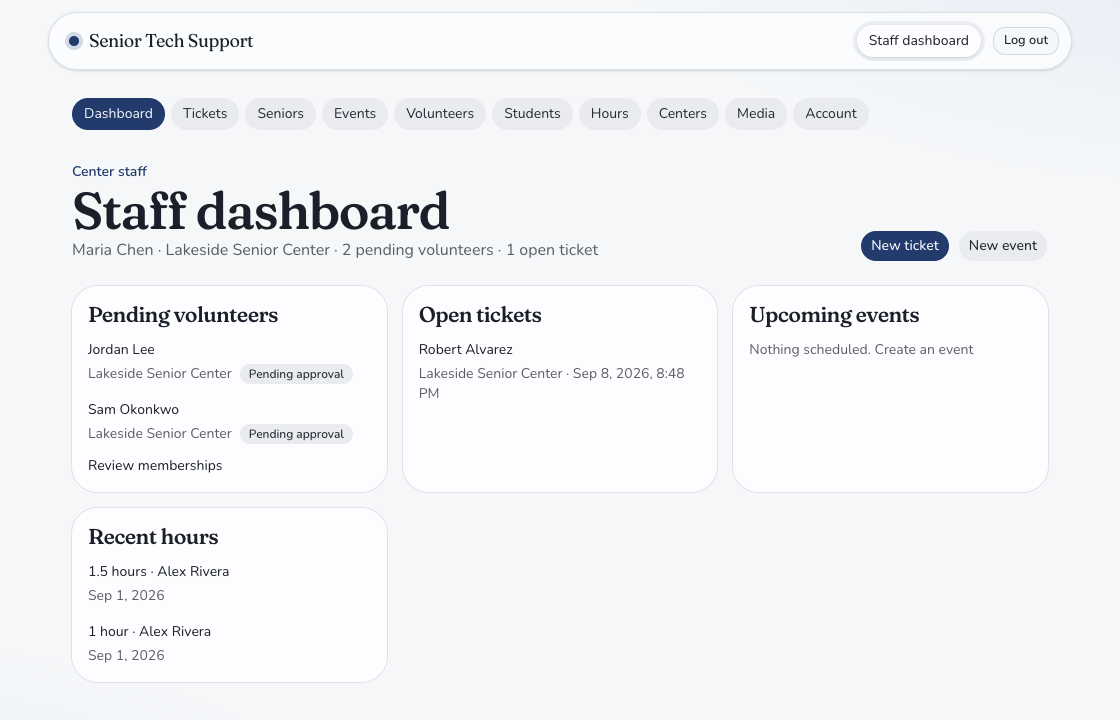
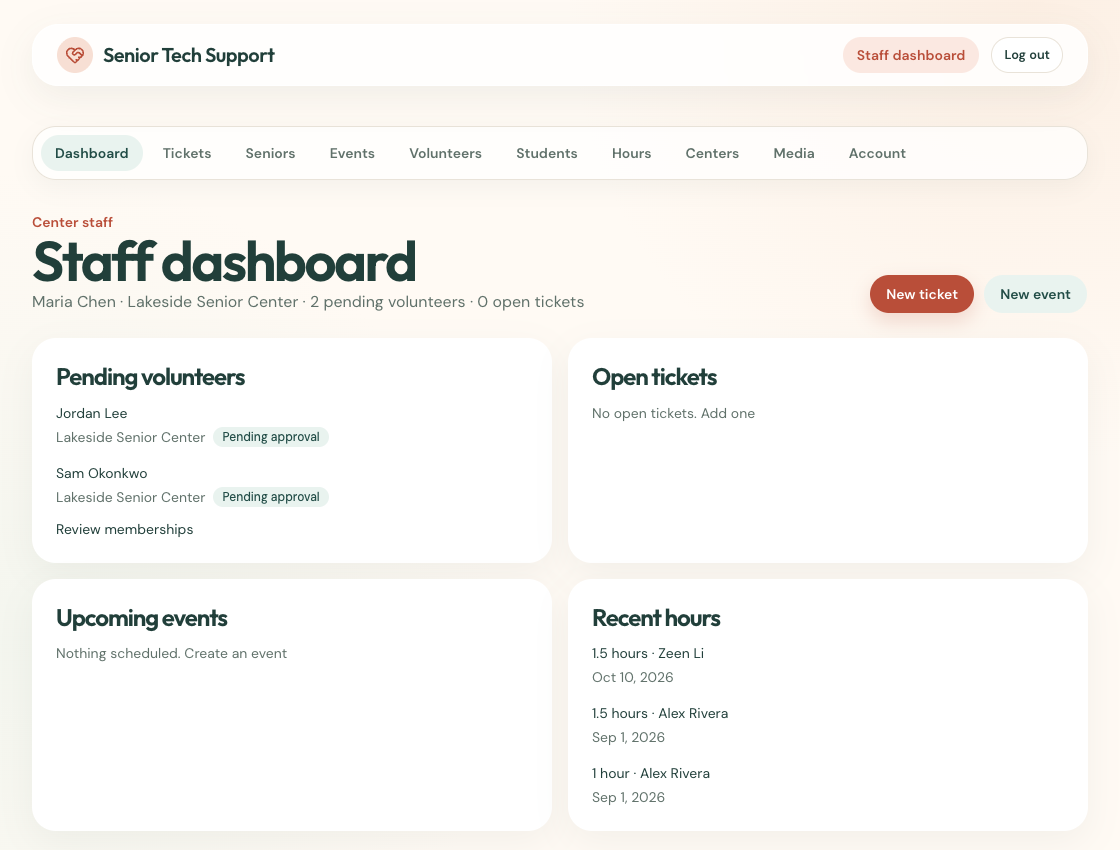
Updated style and screenshots

diff --git a/src/app/(frontend)/(student)/page.tsx b/src/app/(frontend)/(student)/page.tsx
@@ -1,7 +1,8 @@
 import Link from 'next/link'
-import { ArrowRight, CalendarDays, Clock3, Heart, MapPin, MessageCircle, Sparkles } from 'lucide-react'
+import { ArrowRight, CalendarDays, Clock3, Heart, MapPin, Sparkles } from 'lucide-react'
 
 import { isAdminUser, isStudent } from '@/access/roles'
+import { HeroGallery } from '@/app/(frontend)/components/HeroGallery'
 import { Button } from '@/components/ui/button'
 import { getAuth } from '@/lib/auth'
 
@@ -10,21 +11,21 @@ const steps = [
     icon: MapPin,
     number: '01',
     title: 'Find your place',
-    body: 'Join a local center and become part of a welcoming volunteer team.',
+    body: 'Join a local center and become part of the welcoming volunteer team.',
     color: 'bg-[#e7f2ed] text-[#327767]',
   },
   {
     icon: CalendarDays,
     number: '02',
     title: 'Make a difference',
-    body: 'Help at an appointment or lend a hand at a group tech day.',
+    body: 'Help by accepting an appointment or lending a hand at a group tech day.',
     color: 'bg-[#fff0df] text-[#a76632]',
   },
   {
     icon: Clock3,
     number: '03',
     title: 'See your impact',
-    body: 'Keep track of your volunteer hours and the moments that matter.',
+    body: 'Keep track of your volunteer hours and see the difference you make.',
     color: 'bg-[#fbe8e1] text-[#b94e39]',
   },
 ]
@@ -39,13 +40,13 @@ export default async function HomePage() {
       <section className="grid items-center gap-10 pt-4 lg:grid-cols-[0.95fr_1.05fr] lg:gap-8 lg:pt-9">
         <div className="relative z-10 flex flex-col items-start gap-7 lg:py-10">
           <span className="inline-flex items-center gap-2 rounded-full bg-[#e7f2ed] px-4 py-2 text-xs font-bold tracking-[0.12em] text-[#2f7769] uppercase">
-            <Sparkles className="size-4" aria-hidden="true" /> Tech help with heart
+            <Sparkles className="size-4" aria-hidden="true" /> Tech4Seniors
           </span>
           <h1 className="max-w-2xl text-balance !text-[clamp(3.45rem,6vw,5.75rem)] !leading-[0.98]">
-            A little help.<br />A lot of <span className="text-primary">connection.</span>
+            A little help,<br />A lot of <span className="text-primary">connection.</span>
           </h1>
           <p className="max-w-lg text-lg leading-relaxed text-muted-foreground sm:text-xl">
-            Bring your tech know-how to someone who could use a hand. Make everyday technology easier for older adults, one friendly conversation at a time.
+            Bring your tech know-how to someone who could use a hand. A little tech help goes a long way. Use your skills to help senior citizens feel more confident and connected in an increasingly digital world.
           </p>
           <div className="flex flex-wrap items-center gap-3">
             {staff ? (
@@ -59,31 +60,19 @@ export default async function HomePage() {
               </>
             )}
           </div>
-          <p className="flex items-center gap-2 text-sm font-medium text-muted-foreground">
-            <Heart className="size-4 fill-primary text-primary" aria-hidden="true" /> Real people. Real support. Right in your community.
-          </p>
         </div>
-        <div className="relative isolate mx-auto grid min-h-[30rem] w-full max-w-[39rem] place-items-center overflow-hidden rounded-[2.6rem] bg-[#dceee5] p-7 shadow-[0_30px_70px_rgb(49_72_61_/_12%)] sm:min-h-[35rem] sm:rounded-[3.5rem] sm:p-10 lg:ml-auto">
+        <div className="relative isolate mx-auto grid min-h-[31rem] w-full max-w-[39rem] place-items-center overflow-hidden rounded-[2.6rem] bg-[#dceee5] p-7 shadow-[0_30px_70px_rgb(49_72_61_/_12%)] sm:min-h-[36rem] sm:rounded-[3.5rem] sm:p-10 lg:ml-auto">
           <div className="absolute -right-20 -top-20 size-72 rounded-full bg-[#f7dfcb]" aria-hidden="true" />
           <div className="absolute -bottom-24 -left-20 size-72 rounded-full bg-[#abd8c8]" aria-hidden="true" />
           <div className="absolute right-7 top-8 rotate-12 text-[#f5b897]" aria-hidden="true"><Sparkles className="size-16" strokeWidth={1.1} /></div>
-          <div className="relative w-full max-w-[28rem] rotate-[-3deg] rounded-[2rem] border border-white bg-white p-6 shadow-[0_22px_48px_rgb(33_63_58_/_13%)] sm:p-8">
-            <div className="mb-8 flex items-center gap-3">
-              <span className="grid size-11 place-items-center rounded-2xl bg-[#fbe8e1] text-primary"><MessageCircle className="size-5" aria-hidden="true" /></span>
-              <div><p className="text-sm font-bold text-foreground">Every question matters</p><p className="text-xs text-muted-foreground">Here to help, one step at a time</p></div>
-            </div>
-            <div className="mb-4 max-w-[17rem] rounded-2xl rounded-bl-sm bg-[#f5f0e9] px-5 py-4 text-[1.05rem] leading-snug text-foreground">How do I share a photo with my family?</div>
-            <div className="ml-auto max-w-[17rem] rounded-2xl rounded-br-sm bg-[#e5f3ec] px-5 py-4 text-[1.05rem] font-medium leading-snug text-[#22594e]">Let&apos;s figure it out together.</div>
-            <div className="mt-8 flex items-center gap-2 border-t border-border pt-5 text-sm font-semibold text-[#347d70]"><Heart className="size-4 fill-current" aria-hidden="true" /> Tech support that feels human</div>
-          </div>
-          <div className="absolute bottom-5 left-5 rounded-full bg-[#fff8ed] px-4 py-2 text-xs font-bold tracking-wide text-[#9c6638] shadow-sm sm:bottom-8 sm:left-8">A little help goes a long way</div>
+          <HeroGallery />
         </div>
       </section>
 
       <section className="space-y-8" aria-labelledby="how-it-works">
         <div className="max-w-2xl">
           <p className="mb-3 text-sm font-bold tracking-[0.12em] text-primary uppercase">How it works</p>
-          <h2 id="how-it-works" className="!text-[clamp(2.3rem,4vw,3.5rem)]">Your time can brighten someone&apos;s day.</h2>
+          <h2 id="how-it-works" className="!text-[clamp(2.3rem,4vw,3.5rem)]">Your tech skills can make a real difference in someone's everyday life.</h2>
           <p className="mt-4 text-lg leading-relaxed text-muted-foreground">Getting involved is simple. We&apos;ll help you find a place to start.</p>
         </div>
         <div className="grid gap-4 md:grid-cols-3">
@@ -106,8 +95,8 @@ export default async function HomePage() {
         <div className="relative flex flex-col items-start justify-between gap-8 md:flex-row md:items-center">
           <div className="max-w-2xl">
             <p className="mb-3 text-sm font-bold tracking-[0.12em] text-[#bce6d9] uppercase">For local centers</p>
-            <h2 id="together-title" className="!text-[clamp(2.3rem,4vw,3.4rem)] !leading-[1.05] text-white">More support, more smiles, more community.</h2>
-            <p className="mt-4 max-w-xl text-base leading-relaxed text-[#e0f1e9]">Center teams can coordinate volunteers, appointments, events, and hours in one place.</p>
+            <h2 id="together-title" className="!text-[clamp(2.3rem,4vw,3.4rem)] !leading-[1.05] text-white">Everything your center needs to keep tech support running smoothly.</h2>
+            <p className="mt-4 max-w-xl text-base leading-relaxed text-[#e0f1e9]">Center staff can coordinate volunteers, appointments, events, and hours in one place.</p>
           </div>
           <Button asChild size="lg" className="shrink-0 !bg-white !text-[#23584f] !shadow-none hover:!bg-[#eef8f3]"><Link href="/staff/login">Staff sign in <ArrowRight className="ml-1 size-4" /></Link></Button>
         </div>

diff --git a/src/app/(frontend)/components/HeroGallery.tsx b/src/app/(frontend)/components/HeroGallery.tsx
@@ -1,0 +1,141 @@
+'use client'
+
+import Image from 'next/image'
+import { ChevronLeft, ChevronRight } from 'lucide-react'
+import { useState } from 'react'
+
+import communityFeedback from '@/assets/gallery/community-feedback.webp'
+import communityTeam from '@/assets/gallery/community-team.webp'
+import helpSession from '@/assets/gallery/help-session.webp'
+import techHelpSign from '@/assets/gallery/tech-help-sign.webp'
+
+const photos = [
+  {
+    src: communityTeam,
+    alt: 'Students, older adults, and community members together outside Seven Oaks Community Center',
+    caption: 'The people behind the help',
+    position: 'center center',
+  },
+  {
+    src: helpSession,
+    alt: 'Students and older adults working together at tables during a community tech help session',
+    caption: 'Learning side by side',
+    position: 'center center',
+  },
+  {
+    src: techHelpSign,
+    alt: 'A Tech Help sign inviting neighbors to sign up at Seven Oaks Center',
+    caption: 'A warm welcome starts here',
+    position: 'center center',
+  },
+  {
+    src: communityFeedback,
+    alt: 'Paper feedback forms completed after tech help sessions',
+    caption: 'Every voice helps us grow',
+    position: 'center 58%',
+  },
+] as const
+
+type Photo = (typeof photos)[number]
+
+function PhotoFace({ photo }: { photo: Photo }) {
+  return (
+    <div className="gallery-face">
+      <Image
+        src={photo.src}
+        alt={photo.alt}
+        fill
+        sizes="(max-width: 1024px) 85vw, 460px"
+        placeholder="blur"
+        className="object-cover"
+        style={{ objectPosition: photo.position }}
+      />
+    </div>
+  )
+}
+
+export function HeroGallery() {
+  const [frontIndex, setFrontIndex] = useState(0)
+  const [backIndex, setBackIndex] = useState(1)
+  const [flipped, setFlipped] = useState(false)
+  const activeIndex = flipped ? backIndex : frontIndex
+
+  function showPhoto(index: number) {
+    if (index === activeIndex) return
+    if (flipped) setFrontIndex(index)
+    else setBackIndex(index)
+    setFlipped(!flipped)
+  }
+
+  return (
+    <div
+      className="relative z-10 w-full max-w-[29rem]"
+      aria-label="Community photo gallery"
+    >
+      <div
+        id="hero-gallery-stage"
+        className="gallery-stage aspect-[4/3] w-full rotate-[-3deg]"
+      >
+        <div className="gallery-card" data-flipped={flipped}>
+          <div aria-hidden={flipped} className="gallery-side">
+            <PhotoFace photo={photos[frontIndex]} />
+          </div>
+          <div
+            aria-hidden={!flipped}
+            className="gallery-side gallery-side-back"
+          >
+            <PhotoFace photo={photos[backIndex]} />
+          </div>
+        </div>
+      </div>
+
+      <div className="mt-7 flex items-center justify-between gap-3 rounded-[1.4rem] border border-white bg-white/95 px-4 py-3 shadow-[0_12px_28px_rgb(33_63_58_/_10%)] sm:px-5">
+        <div className="min-w-0" aria-live="polite" aria-atomic="true">
+          <p className="text-[0.65rem] font-bold tracking-[0.13em] text-primary uppercase">
+            Community moments · {String(activeIndex + 1).padStart(2, '0')}/04
+          </p>
+          <p className="truncate font-heading text-base font-semibold text-foreground sm:text-lg">
+            {photos[activeIndex].caption}
+          </p>
+        </div>
+        <div className="flex shrink-0 items-center gap-1.5">
+          <button
+            type="button"
+            aria-label="Previous photo"
+            aria-controls="hero-gallery-stage"
+            onClick={() =>
+              showPhoto((activeIndex - 1 + photos.length) % photos.length)
+            }
+            className="grid size-9 place-items-center rounded-full border border-border bg-card text-foreground transition-colors hover:bg-secondary focus-visible:outline-2 focus-visible:outline-offset-2 focus-visible:outline-ring sm:size-10"
+          >
+            <ChevronLeft className="size-5" aria-hidden="true" />
+          </button>
+          <button
+            type="button"
+            aria-label="Next photo"
+            aria-controls="hero-gallery-stage"
+            onClick={() => showPhoto((activeIndex + 1) % photos.length)}
+            className="grid size-9 place-items-center rounded-full bg-primary text-primary-foreground transition-colors hover:bg-primary/90 focus-visible:outline-2 focus-visible:outline-offset-2 focus-visible:outline-ring sm:size-10"
+          >
+            <ChevronRight className="size-5" aria-hidden="true" />
+          </button>
+        </div>
+      </div>
+      <div
+        className="mt-4 flex justify-center gap-2"
+        aria-label="Choose a gallery photo"
+      >
+        {photos.map((photo, index) => (
+          <button
+            key={photo.caption}
+            type="button"
+            aria-label={`Show photo ${index + 1}: ${photo.caption}`}
+            aria-pressed={activeIndex === index}
+            onClick={() => showPhoto(index)}
+            className={`h-2 rounded-full transition-all focus-visible:outline-2 focus-visible:outline-offset-2 focus-visible:outline-ring ${activeIndex === index ? 'w-6 bg-primary' : 'w-2 bg-[#8db9aa] hover:bg-[#4c8d7e]'}`}
+          />
+        ))}
+      </div>
+    </div>
+  )
+}

diff --git a/src/app/globals.css b/src/app/globals.css
@@ -164,3 +164,47 @@
 .app-shell ::selection {
   background: #dcefeb;
 }
+
+.gallery-stage {
+  perspective: 1400px;
+}
+
+.gallery-card {
+  position: relative;
+  width: 100%;
+  height: 100%;
+  transform-style: preserve-3d;
+  transition: transform 700ms cubic-bezier(0.22, 0.8, 0.22, 1);
+}
+
+.gallery-card[data-flipped='true'] {
+  transform: rotateY(180deg);
+}
+
+.gallery-side {
+  position: absolute;
+  inset: 0;
+  overflow: hidden;
+  border: 6px solid white;
+  border-radius: 2rem;
+  background: white;
+  box-shadow: 0 22px 48px rgb(33 63 58 / 18%);
+  backface-visibility: hidden;
+  -webkit-backface-visibility: hidden;
+}
+
+.gallery-side-back {
+  transform: rotateY(180deg);
+}
+
+.gallery-face {
+  position: relative;
+  width: 100%;
+  height: 100%;
+}
+
+@media (prefers-reduced-motion: reduce) {
+  .gallery-card {
+    transition: none;
+  }
+}

diff --git a/src/app/(frontend)/staff/login/page.tsx b/src/app/(frontend)/staff/login/page.tsx
@@ -16,7 +16,7 @@ export default async function StaffLoginPage() {
   return (
     <div className="mx-auto grid w-full max-w-5xl items-stretch gap-6 pt-4 md:grid-cols-2">
       <AuthPanel
-          label="For center teams"
+          label="For center staff"
           title="The little things add up."
           description="Coordinate volunteers and give every neighbor the support they deserve."
         />

diff --git a/README.md b/README.md
@@ -2,7 +2,7 @@
 
 **A simple way for community centers to organize tech help from student volunteers.**
 
-Center staff keep a record of the seniors they serve, post individual support tickets, and schedule group help days. Students request to join a center, take on work after approval, and log their volunteer hours. The app gives each group a focused view of the same program.
+Center staff keep a record of the seniors they serve, post individual support tickets, and schedule group help days. Students request to join a center, take on work after approval, and log their volunteer hours. The app gives each group a focused view of the same program. The home page features a photo gallery of community tech help moments.
 
 ![Senior Tech Support home page](docs/screenshots/home.png)
 
@@ -21,11 +21,11 @@ Students see their assigned tickets, upcoming events, center memberships, and to
 
 ![Student dashboard with assigned tickets and center memberships](docs/screenshots/student-dashboard.png)
 
-### Open tickets
+### Find a center
 
-Students can browse and claim available appointments at centers where they are approved.
+Students can browse participating centers and request to join a volunteer team.
 
-![Open tickets available to an approved student](docs/screenshots/open-tickets.png)
+![Center directory with volunteer opportunities](docs/screenshots/centers.png)
 
 ### Staff dashboard
 
@@ -39,7 +39,7 @@ Staff decide which students can volunteer at their center.
 
 ![Staff view for approving center memberships](docs/screenshots/staff-memberships.png)
 
-_Screenshots show local demo data._
+_Application screenshots show local demo data. The home page gallery uses photos from the project._
 
 ## What is included
 
@@ -96,6 +96,7 @@ These credentials are for local demos. Replace the seed credentials and secret b
 src/
 ├── app/(frontend)/       Student and staff pages, forms, and server actions
 ├── app/(payload)/        Payload admin and API routes
+├── assets/gallery/       Home page community photos
 ├── collections/          Program data models and collection permissions
 ├── access/               Role and center access rules
 ├── hooks/                Data validation and workflow rules
